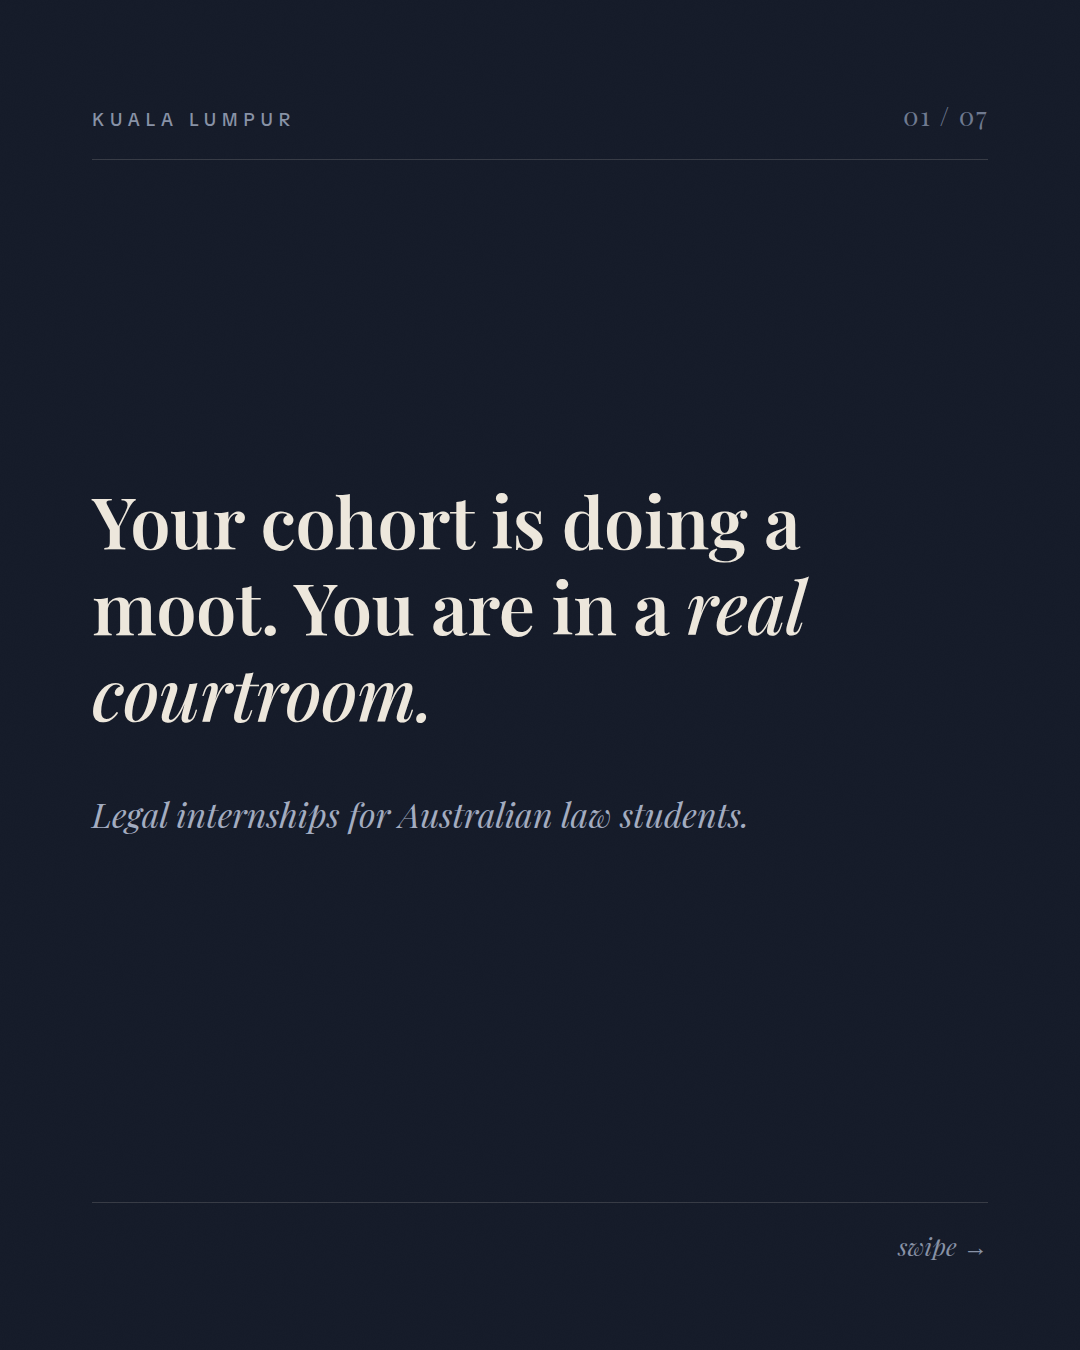
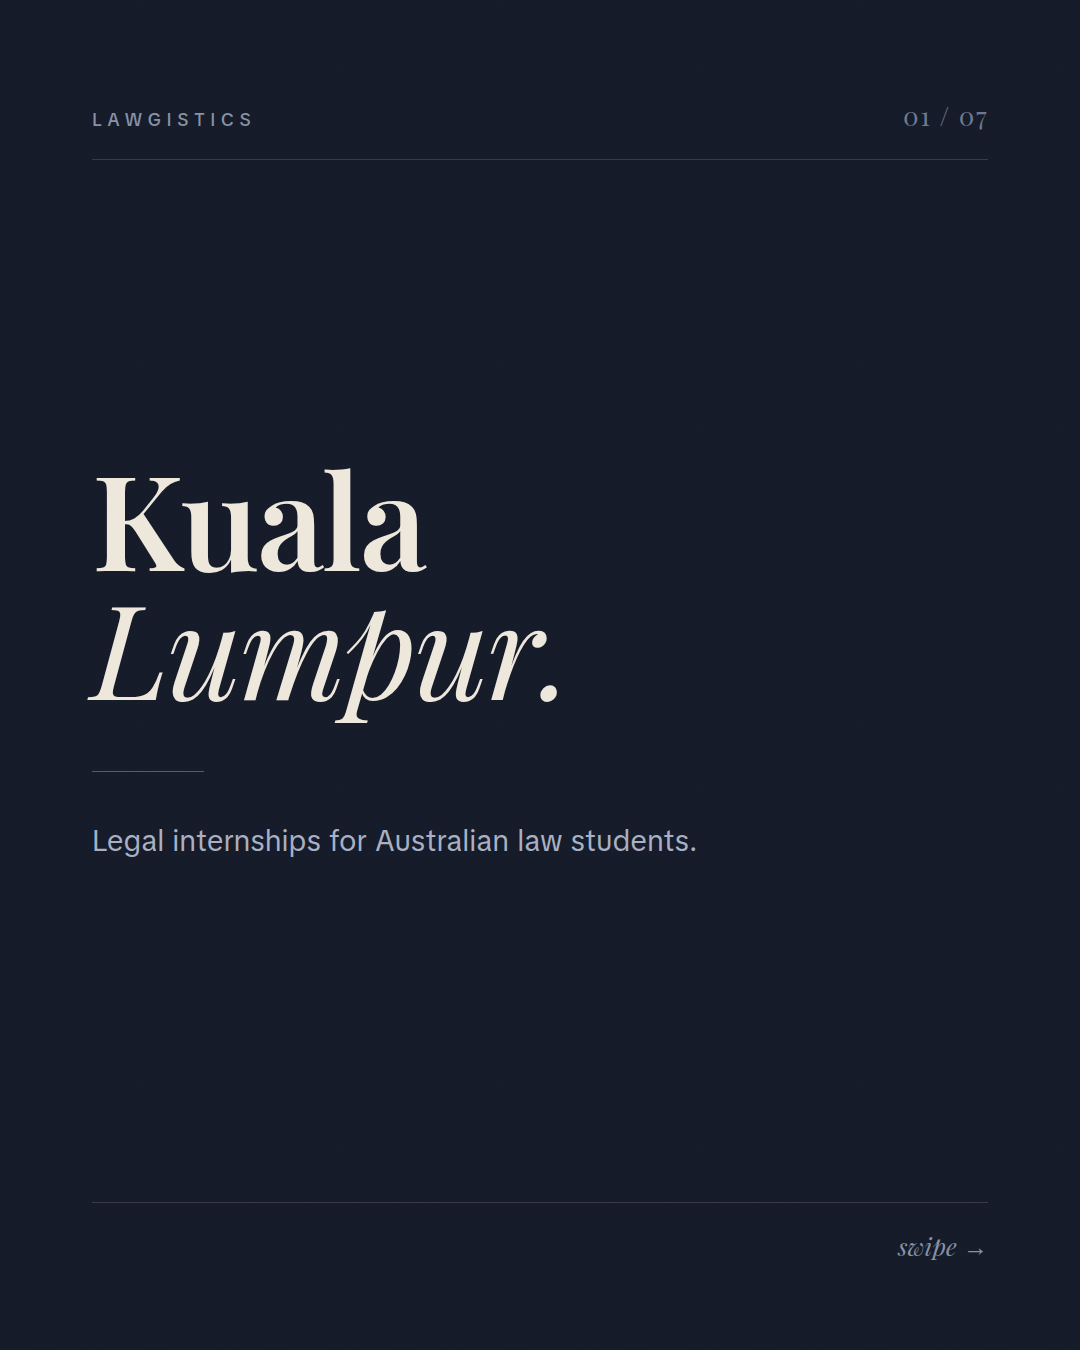
Set destination cover as pinned slide 1
Cover C selected. Big Playfair Kuala Lumpur with hairline and one sans line
under it, no argument on the cover. Caption opens on the court in the morning
line instead. Cover option files removed.

Claude-Session: https://claude.ai/code/session_01JRjeUUcoRT5GxuTf3inkfN

Changed region(s): [[0.0917, 0.3422, 0.7639, 0.56], [0.0917, 0.5911, 0.7028, 0.6533], [0.0917, 0.0622, 0.275, 0.0933]]

diff --git a/tools/carousel/pinned.py b/tools/carousel/pinned.py
@@ -66,6 +66,14 @@ body.light{background:#EDE7DC;color:#171D2B;}
   font-size:34px;line-height:1.5;color:#A3ACC0;max-width:800px;}
 .light .sub{color:#6E6858;}
 
+/* cover: editorial destination treatment */
+.dest{font-family:'Playfair',serif;font-weight:600;font-size:132px;line-height:.98;
+  letter-spacing:-.018em;}
+.dest em{font-style:italic;font-weight:400;}
+.rule{width:112px;height:1px;background:rgba(237,231,220,.32);margin:60px 0 46px;}
+.destsub{font-family:'TikTok Sans',sans-serif;font-size:29px;line-height:1.6;
+  font-weight:400;color:#A9B0C2;max-width:700px;}
+
 .body{margin-top:52px;font-family:'TikTok Sans',sans-serif;font-size:31px;
   line-height:1.7;color:#A9B0C2;max-width:830px;}
 .light .body{color:#4E4A3F;}
@@ -110,9 +118,10 @@ def slide(n, kicker, inner, cite="", light=False, swipe=False):
 </div></body></html>"""
     (OUT / f"pin{n:02d}.html").write_text(html)
 
-slide(1, "Kuala Lumpur",
-  '<div class="statement lg">Your cohort is doing a moot. You are in a <em>real courtroom.</em></div>'
-  '<div class="sub">Legal internships for Australian law students.</div>',
+slide(1, "Lawgistics",
+  '<div class="dest">Kuala<br><em>Lumpur.</em></div>'
+  '<div class="rule"></div>'
+  '<div class="destsub">Legal internships for Australian law students.</div>',
   swipe=True)
 
 slide(2, "The Program",

diff --git a/reports/assets/pinned/POSTING-KIT.md b/reports/assets/pinned/POSTING-KIT.md
@@ -36,7 +36,7 @@ Send me the quotes and I will typeset and re-render both slides.
 
 | Slide | Kicker | Does |
 |---|---|---|
-| 01 | Kuala Lumpur | Hook. Your cohort is mooting, you are in a real courtroom. |
+| 01 | Lawgistics | Destination cover. Makes no argument, the place does the work. |
 | 02 | The Program | What it is, stated once, no over-explaining. |
 | 03 | The City | KL itself, in concrete detail. Flight time, temperature, food. |
 | 04 | In Their Words | **Testimonial, placeholder.** |
@@ -54,11 +54,11 @@ Post as a normal carousel, then three dots at the top right of the post, **Pin t
 
 ## Instagram caption (copy-paste)
 
-Your cohort is doing a moot. You are in a real courtroom.
+Court in the morning. Kuala Lumpur the rest of the time.
 
 Lawgistics places Australian law students in legal internships in Kuala Lumpur. A placement, not a study tour. You are with practising lawyers, in a working legal city, for the length of it.
 
-Court in the morning. Kuala Lumpur the rest of the time. One of Asia's legal and financial hubs, eight hours from Sydney. Thirty degrees in February, street food at midnight.
+One of Asia's legal and financial hubs, eight hours from Sydney. Thirty degrees in February, street food at midnight.
 
 What you take home is international legal exposure years ahead of everyone else in your year. It shows up in interviews. It shows up in applications. It shows up in what you get trusted with once you are hired.
 
